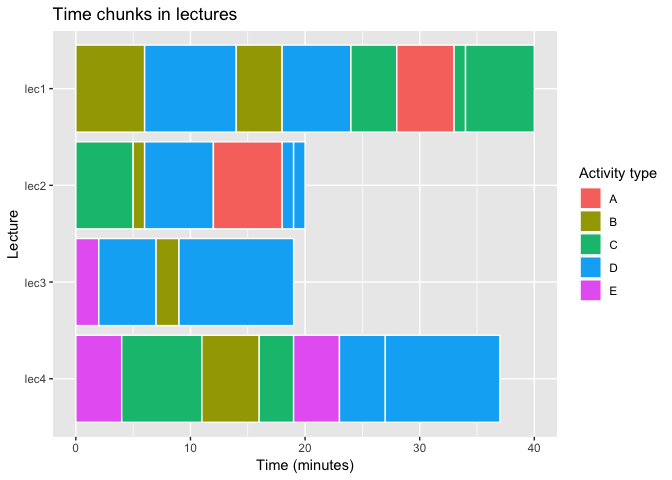
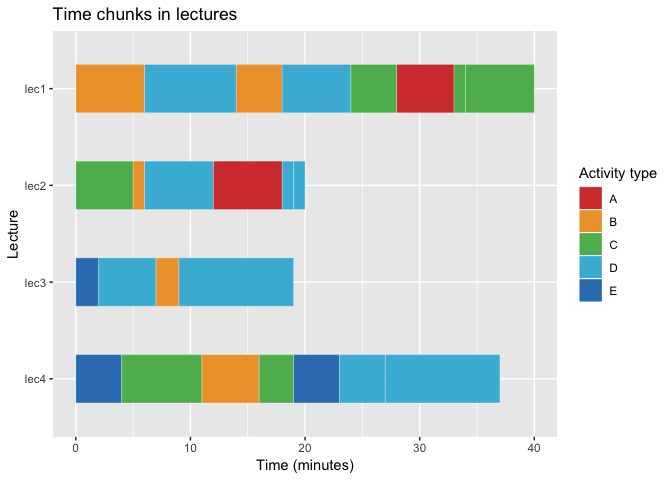
rewrite to make plotting simpler and manipulation in df

diff --git a/plot_time_chunks.md b/plot_time_chunks.md
@@ -1,43 +1,42 @@
 Plotting time chunks
 ================
 Ian Handel
-2019-04-08
+2019-04-09
 
 ``` r
-library(ggplot2) # for plotting
-library(dplyr) # to wrangle data
+# for plotting
+library(ggplot2)
+# to wrangle data
+suppressPackageStartupMessages(library(dplyr))
 ```
 
     ## Warning: package 'dplyr' was built under R version 3.5.2
 
-    ## 
-    ## Attaching package: 'dplyr'
-
-    ## The following objects are masked from 'package:stats':
-    ## 
-    ##     filter, lag
-
-    ## The following objects are masked from 'package:base':
-    ## 
-    ##     intersect, setdiff, setequal, union
-
 ``` r
-library(forcats) # to change factor levels
-library(ggsci) # for palette
+# for factor manipulation
+library(forcats)
+# for palette
+library(ggsci)
 ```
 
-set random number seed so data the same
+set random number seed so data the same each time
 
 ``` r
 set.seed(111)
 ```
 
-Make some data with... column for lecture, column for time spent column for class of activity
+Make some test data with...
+
+column for lecture,
+
+column for time spent
+
+column for class of activity
 
 ``` r
 dat <- tibble(
   lecture = rep(paste0("lec", 1:4), c(8, 6, 4, 7)),
-  time = sample(1:10, 25, replace = TRUE),
+  duration = sample(1:10, 25, replace = TRUE),
   type = sample(LETTERS[1:5], 25, replace = TRUE)
 )
 
@@ -45,82 +44,72 @@ dat
 ```
 
     ## # A tibble: 25 x 3
-    ##    lecture  time type 
-    ##    <chr>   <int> <chr>
-    ##  1 lec1        6 B    
-    ##  2 lec1        8 D    
-    ##  3 lec1        4 B    
-    ##  4 lec1        6 D    
-    ##  5 lec1        4 C    
-    ##  6 lec1        5 A    
-    ##  7 lec1        1 C    
-    ##  8 lec1        6 C    
-    ##  9 lec2        5 C    
-    ## 10 lec2        1 B    
+    ##    lecture duration type 
+    ##    <chr>      <int> <chr>
+    ##  1 lec1           6 B    
+    ##  2 lec1           8 D    
+    ##  3 lec1           4 B    
+    ##  4 lec1           6 D    
+    ##  5 lec1           4 C    
+    ##  6 lec1           5 A    
+    ##  7 lec1           1 C    
+    ##  8 lec1           6 C    
+    ##  9 lec2           5 C    
+    ## 10 lec2           1 B    
     ## # … with 15 more rows
 
-Then add a column, for each lecture with the cumulative time spent (need this to give unique ID for each chunk) (This needs reversing to plot orders sensibly)
+Now work out start and end times for the chunk
+
+Assumes start at zero time
 
 ``` r
 dat <- dat %>%
   group_by(lecture) %>%
-  mutate(time_cumul = rev(cumsum(time)))
-
-dat
+  mutate(
+    end = cumsum(duration),
+    start = dplyr::lag(end, default = 0)
+  )
 ```
 
-    ## # A tibble: 25 x 4
-    ## # Groups:   lecture [4]
-    ##    lecture  time type  time_cumul
-    ##    <chr>   <int> <chr>      <int>
-    ##  1 lec1        6 B             40
-    ##  2 lec1        8 D             34
-    ##  3 lec1        4 B             33
-    ##  4 lec1        6 D             28
-    ##  5 lec1        4 C             24
-    ##  6 lec1        5 A             18
-    ##  7 lec1        1 C             14
-    ##  8 lec1        6 C              6
-    ##  9 lec2        5 C             20
-    ## 10 lec2        1 B             19
-    ## # … with 15 more rows
+Then plot...
 
-Then plot Each lecture maps to an x column Time slots 'stack' and have fill colour of 'type' Tidy up axis lables with labs()
+using geom\_tile need to..
+
+give centre of tile
+
+and its height and width
+
+width is duration
+
+Tidy up axis lables with labs()
 
 ``` r
 ggplot(dat) +
   aes(
-    x = fct_rev(lecture), y = time,
-    fill = type,
-    group = time_cumul
+    x = start + duration / 2,
+    width = duration,
+    y = fct_rev(lecture),
+    fill = type
   ) +
-  geom_bar(stat = "identity",
-           position = position_stack(),
-           colour = "white") +
+  geom_tile(
+    height = 0.5,
+    colour = "white"
+  ) +
   labs(
     title = "Time chunks in lectures",
-    x = "Lecture",
-    y = "Time (minutes)",
+    y = "Lecture",
+    x = "Time (minutes)",
     fill = "Activity type"
   )
 ```
 
 ![](plot_time_chunks_files/figure-markdown_github/unnamed-chunk-5-1.png)
 
-Looks nicer if flipped around... coord\_flip() could just be added onto code above or this way takes last plot and adds it...
-
-``` r
-last_plot() +
-  coord_flip()
-```
-
-![](plot_time_chunks_files/figure-markdown_github/unnamed-chunk-6-1.png)
-
-Maybe nicer with different colours
+Maybe different colours
 
 ``` r
 last_plot() +
   ggsci::scale_fill_locuszoom()
 ```
 
-![](plot_time_chunks_files/figure-markdown_github/unnamed-chunk-7-1.png)
+![](plot_time_chunks_files/figure-markdown_github/unnamed-chunk-6-1.png)
